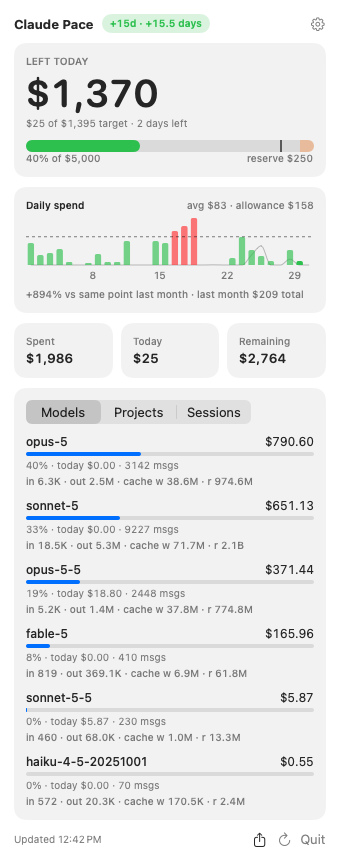
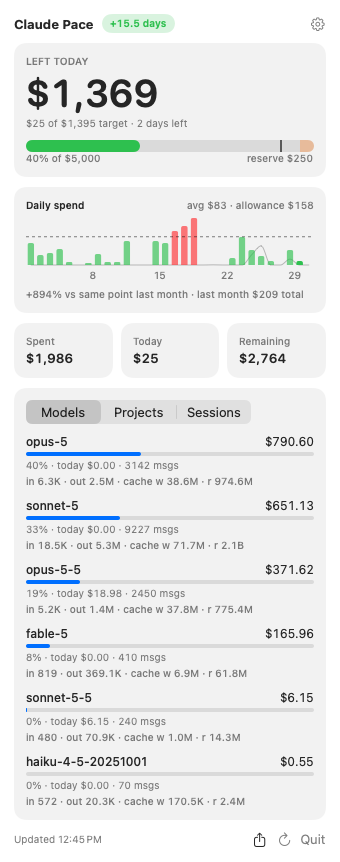
Show only the decimal days in the header pill

diff --git a/Sources/ClaudePace/App.swift b/Sources/ClaudePace/App.swift
@@ -77,7 +77,7 @@ struct UsageView: View {
         HStack(spacing: 8) {
             Text("Claude Pace").font(.headline)
             if let s = model.status {
-                Text("\(s.label) · " + String(format: "%+.1f days", s.daysAhead))
+                Text(String(format: "%+.1f days", s.daysAhead))
                     .font(.caption.weight(.semibold)).monospacedDigit()
                     .padding(.horizontal, 8).padding(.vertical, 3)
                     .background(color(s).opacity(0.18), in: Capsule())
